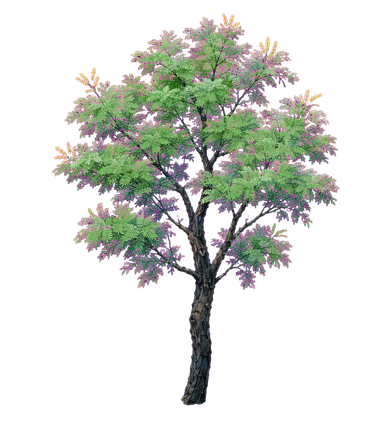
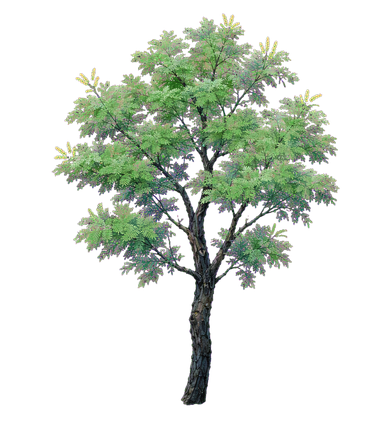
three real defects in the alien stages, and the "brown dots" were never brown
Art, `NOTE-FROM-ART-2026-10-06-ALIEN-STAGES.md`. **They did not paint five sprites, and they were right not
to.** Four things, and the first is mine.

**1. MY BRIEF ASKED FOR SOMETHING THE OWNER HAD ALREADY DECLINED.** The brief asked for *"a seedling stage
for the four weeds."* The code has carried his answer since 2026-10-03: *"i dont want seedlings, they need to
be big enough to identify when they come up. just not suddenly big."* **I asked for a thing that was already
refused, and the comment recording the refusal is in the file I was editing.**

**2. AND A SEEDLING SPRITE WOULD HAVE BEEN INERT.** The alien wrapper resolves ONE id -- `prop('alien_' +
aid, ...)` is a flat lookup -- so `alien_bramble_seedling` would never be asked for. **Art's words: *"correct
painting, no caller"* -- the same failure as the shade tiles before `groundKey()`.** They caught the pattern
from the last round and refused to repeat it.

**3. THE "BROWN DOTS" ARE ROSE, AND BRIGHTER THAN THE GROUND.** Measured on the shipped cell: wattle stage 1
is **55.3% green, 8.5% brown, 36.2% near-neutral, own luma 129.9 -- that is +50.3 AGAINST grass.** Not brown
specks: pale pink clumps. **The raw carries 18.0% of its ink at hue >= 285 or <= 20, mean RGB about
(208, 90, 180), and *Acacia mearnsii* has no pink in it at any season.** The prompt has banned pink flowers
since `build_manifest.py` line 178 and line 233 already records *"the wattle that came back with pink
[…]

diff --git a/mistbelt/index.html b/mistbelt/index.html
@@ -730,7 +730,16 @@ var ALIENS = {
    believes cutting it was a mistake if it LOOKED worth cutting, and then I drew it smaller than the
    pine. In the field A. melanoxylon reaches 40 m against P. patula's 25-30, so it is the taller tree
    as well. 1.75 puts it just above the pine, which is both the fact and the point. */
-var ALIEN_SCALE = { bramble: 1.45, blackwood: 1.75 };
+/* THE BLACKWOOD WAS SCALED TWICE, AND THE SECOND ONE WAS A HALF-FINISHED MIGRATION.
+   Art, `NOTE-FROM-ART-2026-10-06-ALIEN-STAGES.md`: *"ALIEN_SCALE.blackwood = 1.75 and
+   SIZE.alien_blackwood = 1.75 both apply -- the world call site multiplies and prop() multiplies again.
+   The dev's comment says the new SIZE entry 'Mirrors ALIEN_SCALE', and 726-727 records that ALIEN_SCALE
+   used to hold pine: 1.65, blackwood: 1.30 -- pine has since left that table and blackwood did not."*
+   **A half-finished migration, and the result was a blackwood drawing at 3.06x instead of 1.75x:**
+   170.5 world px where the pine is 91.9, against a recorded intent of *"1.75 puts it just above the
+   pine."* **Removing the entry puts it at 97 px -- just above the pine, which is both the fact and the
+   point the comment makes.** `bramble` stays here because there is no `SIZE.alien_bramble` to mirror it. */
+var ALIEN_SCALE = { bramble: 1.45 };
 /* A WEED IS NOT FULL GROWN THE DAY IT COMES UP. Three stages, the same shape the planted trees use
    (0.26 / 0.56 / 1), sized so a fresh sprout reads as a seedling on the tile rather than as a tree
    that was not there a second ago. Index 0 is deliberately absent -- an alien is never stage 0 --
@@ -8250,8 +8259,20 @@ var SPR = (function () {
     var aid = (kind === 'pine' && ter === 'plantation') ? 'pine_b' : kind;
     var pct = ALIEN_STAGE_SCALE[st] || 1;
     if (st < 3) {
-      var full = TW * (SIZE['alien_' + aid] || 1);      /* how tall this species draws at full size */
-      var floorPx = st === 1 ? ALIEN_MIN_PX : ALIEN_MIN_PX * 1.5;
+      /* THE FLOOR WAS COMPUTED AGAINST A HEIGHT THAT IS NOT THE HEIGHT.
+         Art measured it: `full = TW * SIZE` *"omits both `vs` and `ALIEN_SCALE`, so the floor is exact
+         only at one particular scatter"* -- **below vs 1.0 the two smallest weeds were drawn UNDER the
+         minimum the floor exists to guarantee**, which is the scatter's whole range bar the top eighth.
+         `s` arrives carrying both factors (the call site applies them), so dividing it out recovers
+         exactly what was missing and the floor is compared against the real drawn height. */
+      var full = TW * (SIZE['alien_' + aid] || 1) * (s / (TW * 0.78));
+      /* AND THE FLOOR IS CAPPED AS A FRACTION OF FULL, which is the bramble's whole problem.
+         `22.5 / 19.84 = 1.134`, so stage 2 clamped to 1.0 and drew IDENTICALLY to stage 3 -- **the
+         species the owner singled out as the horrible one is the one whose three stages collapsed into
+         two.** A fixed pixel floor cannot work for a plant whose full size is 20 px: it either makes the
+         sprout full-grown or it makes it unidentifiable. **Capping it at 55% of full gives the pine its
+         15 px guarantee where 15 px is possible, and gives the bramble a real sprout where it is not.** */
+      var floorPx = Math.min(st === 1 ? ALIEN_MIN_PX : ALIEN_MIN_PX * 1.5, full * 0.55);
       var sc = Math.min(1, Math.max(pct, floorPx / full));
       s = s * sc;
     }
